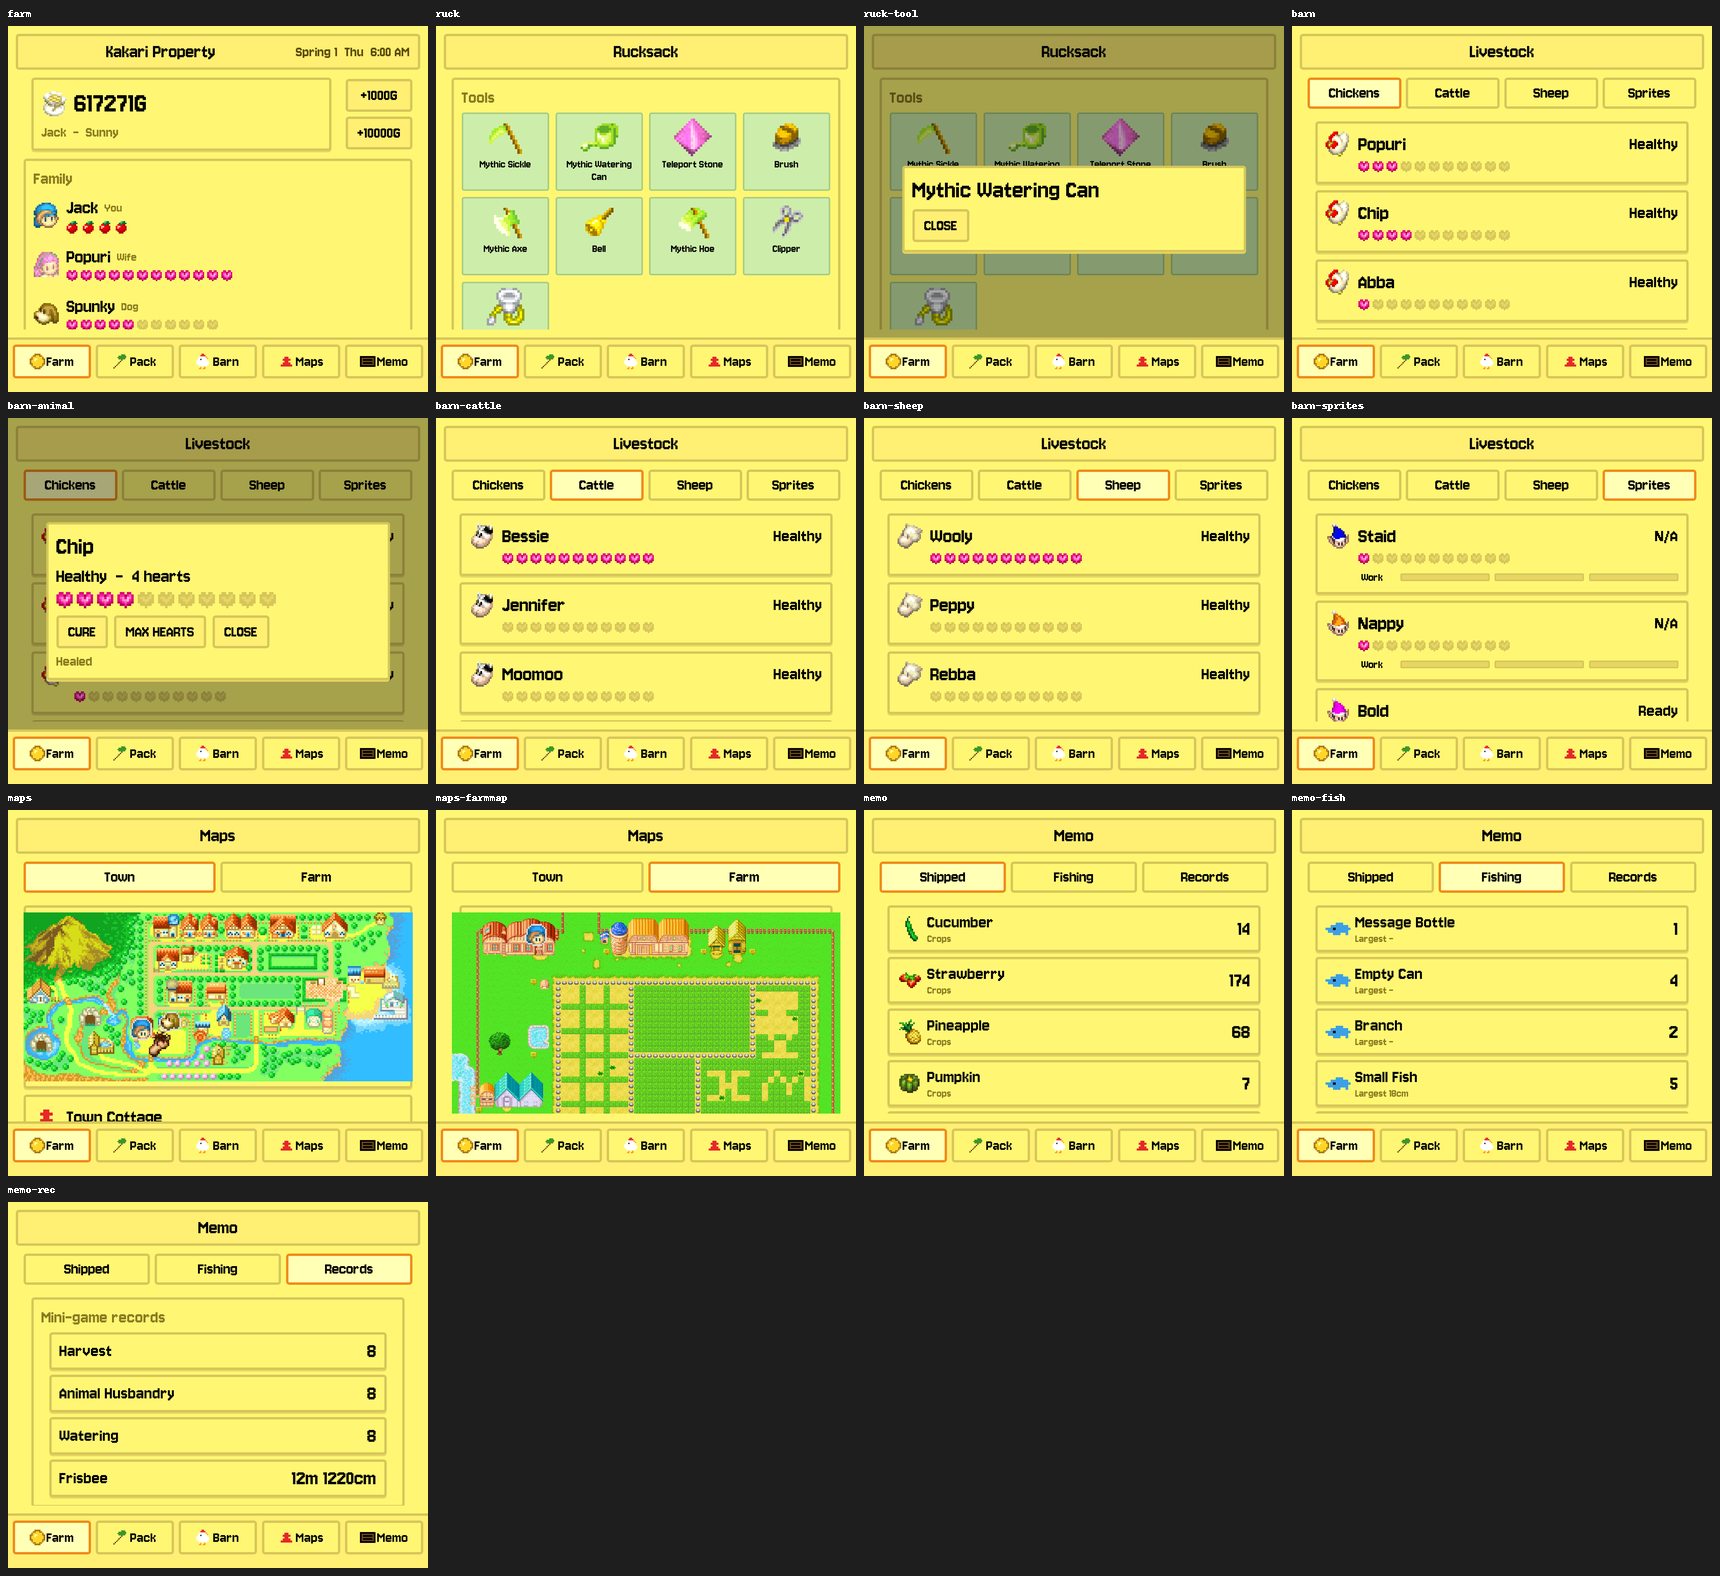
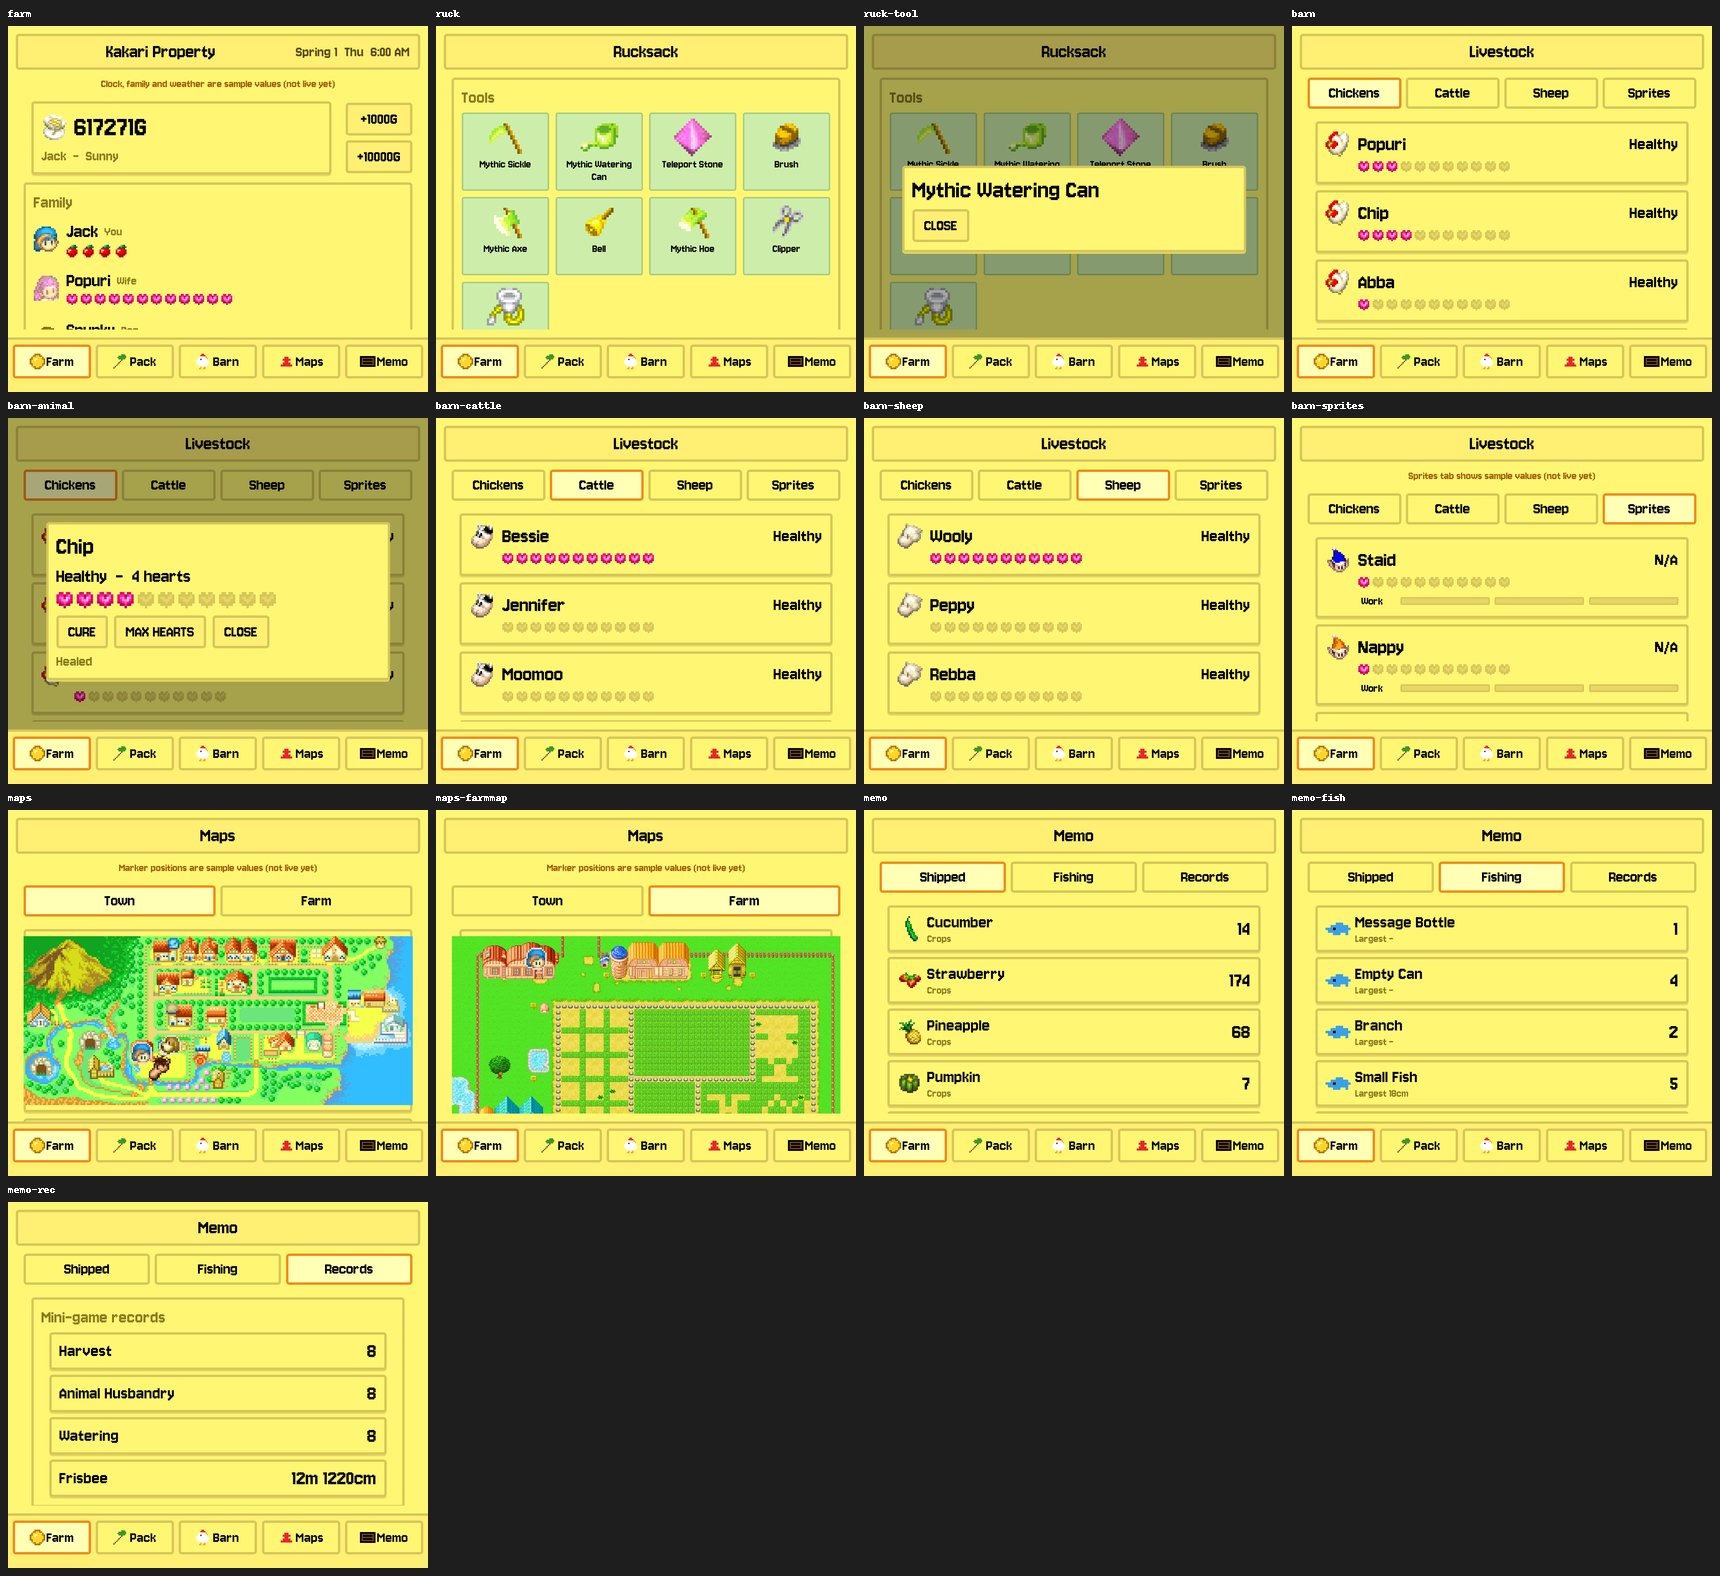
release: Packs v3.3.0
New: castlevania (Aria of Sorrow, Circle of the Moon, Harmony of Dissonance), fire-emblem, fire-emblem-the-sacred-stones, harvest-moon-fomt, mother-3 and zelda-a-link-to-the-past, all 0.1.0.
Metroid Fusion 2.0.5 and Zero Mission 1.0.5. companions.json and README updated.

Changed region(s): [[0.0, 0.5286, 0.493, 0.7151], [0.7395, 0.2798, 0.986, 0.4664], [0.0, 0.0311, 0.2465, 0.2176]]

diff --git a/harvest-moon-fomt-companion/style.css b/harvest-moon-fomt-companion/style.css
@@ -97,3 +97,5 @@
 .scroll .topline, .scroll .win, .scroll .tiles { margin: 0 10px; }
 .page .scroll { padding-top: 0; }
 .bar { flex-shrink: 0; } .scroll { min-height: 0; }
+
+.note { font-size: 15px; color: #a05a00; padding: 0 12px 4px 12px; text-align: center; flex-shrink: 0; }

diff --git a/harvest-moon-fomt-companion/art/layout.py b/harvest-moon-fomt-companion/art/layout.py
@@ -33,6 +33,7 @@ def slot_grid(src):
 # ---------- Farm ----------
 farm = box("page", [
     bar("{farm} Property", ("{season} {day}  {weekday}  {clock}", "$hasClock")),
+    text("note", "Clock, family and weather are sample values (not live yet)", visibleIf="$isSample"),
     box("scroll", [
     row("topline", [
         box("win gold-win", [row("gold-row", [img("coin", "$coinIcon"), text("gold", "{gold}G")]),
@@ -73,6 +74,7 @@ sprites = {"type": "list", "class": "clist", "items": "$sprites", "template": bo
                  {"type": "bar", "class": "meter m3", "value": "$b3", "max": 1}])])}
 barn = box("page", [
     bar("Livestock"),
+    text("note", "Sprites tab shows sample values (not live yet)", visibleIf="$tbSprites"),
     pills("barnTab", "chickens", [("Chickens", "chickens", "$tbChickens"), ("Cattle", "cattle", "$tbCattle"),
                                   ("Sheep", "sheep", "$tbSheep"), ("Sprites", "sprites", "$tbSprites")]),
     box("scroll", [
@@ -85,6 +87,7 @@ barn = box("page", [
 # ---------- Maps ----------
 maps = box("page", [
     bar("Maps"),
+    text("note", "Marker positions are sample values (not live yet)", visibleIf="$isSample"),
     pills("mapTab", "town", [("Town", "town", "$mpTown"), ("Farm", "farm", "$mpFarm")]),
     box("tabbody", [
         box("win map-win", [box("map-view", [
@@ -105,6 +108,7 @@ maps = box("page", [
 def kv_row(): return box("win srow", [box("sname-col", [text("sname", "{name}")]), text("scount", "{value}")])
 memo = box("page", [
     bar("Memo"),
+    text("note", "Fishing and records are sample values (not live yet)", visibleIf="$tmOther"),
     pills("memoTab", "ship", [("Shipped", "ship", "$tmShip"), ("Fishing", "fish", "$tmFish"), ("Records", "rec", "$tmRec")]),
     text("dim pad", "Nothing shipped yet", visibleIf="$noShipped"),
     box("scroll", [

diff --git a/README.md b/README.md
@@ -32,7 +32,7 @@ game's memory as you play. This repo holds the packs, one folder each.
 3. Start the game. The companion shows on the bottom screen.
 
 Each game remembers its pack; change it any time from the same **⋮** menu.
-Most packs need GBADuo **v0.1.3** or newer; the Metroid and Oracle of Ages packs need **v0.1.8**. The **WIDE** button (Pokémon FireRed and LeafGreen, The Minish Cap, Golden Sun) paints the game's world beside the picture and needs **v0.1.9**, **v0.1.10** for The Minish Cap, or **v0.1.11** for Golden Sun. The Dragon Ball Z: Legacy of Goku II, Pokémon Monomyth, Light Platinum, Unbound and Golden Sun: The Lost Age packs need **v0.1.15**.
+Most packs need GBADuo **v0.1.3** or newer; the Metroid and Oracle of Ages packs need **v0.1.8**. The **WIDE** button (Pokémon FireRed and LeafGreen, The Minish Cap, Golden Sun) paints the game's world beside the picture and needs **v0.1.9**, **v0.1.10** for The Minish Cap, or **v0.1.11** for Golden Sun. The Dragon Ball Z: Legacy of Goku II, Pokémon Monomyth, Light Platinum, Unbound, Golden Sun: The Lost Age, Castlevania, Fire Emblem, Harvest Moon, Mother 3 and A Link to the Past packs need **v0.1.15**.
 
 ## Packs
 
@@ -56,13 +56,28 @@ Each pack is a folder; the zip name is `<pack>-<version>.zip` on the
 
 | Pack | Game | Game codes | Pages | Version | Notes |
 |---|---|---|---|---|---|
-| [`metroid-zero-mission-companion`](metroid-zero-mission-companion) | Metroid: Zero Mission | `BMXE` `BMXP` `BMXJ` | Map, Status, Sectors, Log | 1.0.4 | The game's pause screen. Your explored map centered on Samus, her suit with the beams and gear you own (tap one to switch it on or off), area progress, boss targets and recovered tanks. Needs **GBADuo v0.1.8** and, for the switches, **Settings > Packs can change games**. See [NOTES](metroid-zero-mission-companion/NOTES.md). |
+| [`metroid-zero-mission-companion`](metroid-zero-mission-companion) | Metroid: Zero Mission | `BMXE` `BMXP` `BMXJ` | Map, Status, Sectors, Log | 1.0.5 | The game's pause screen. Your explored map centered on Samus, her suit with the beams and gear you own (tap one to switch it on or off), area progress, boss targets and recovered tanks. Needs **GBADuo v0.1.8** and, for the switches, **Settings > Packs can change games**. See [NOTES](metroid-zero-mission-companion/NOTES.md). |
 | [`advance-wars-companion`](advance-wars-companion) | Advance Wars | `AWRE` | Home, Units, Unit, Map, Armies, Guide, Log, Options | 0.1.1 | The day, funds and every army's units with HP, fuel and ammo, a map of the battlefield, a unit guide from the ROM's own table, an event log, and a movable navigation bar. |
 | [`final-fantasy-tactics-advance-companion`](final-fantasy-tactics-advance-companion) | Final Fantasy Tactics Advance | `AFXE` | Clan, Unit, Skills, Jobs, Top, Compare, Battle, Stats, Options | 0.1.1 | The clan roster with stats worked out from base values, gear and jobs (checked against the game's own screens), equipped abilities, a gear compare, the battle's foes and the Day's laws, and a movable navigation bar. Ships no game graphics. |
 | [`dragon-ball-z-legacy-of-goku-2-companion`](dragon-ball-z-legacy-of-goku-2-companion) | Dragon Ball Z: The Legacy of Goku II | `ALFE` | Journal, Status, Items, Options | 0.4.0 | The game's pause menu. Your party with live HP, EP, STR / POW / END, level and EXP, techniques, the items you carry with pictures and descriptions, and your active and finished quests. **Wide view** (Options page) paints the map around the game's picture, draws sprites that stick out of the frame, and stops at the map's edge; needs **GBADuo v0.1.15**. See [NOTES](dragon-ball-z-legacy-of-goku-2-companion/NOTES.md). |
 | [`final-fantasy-vi-advance-companion`](final-fantasy-vi-advance-companion) | Final Fantasy VI Advance | `BZ6E` | Party, Items, Abilities, Equip, Relics, Status, Formation, Config | 0.2.1 | The game's whole pause menu in a loop (left / right buttons): your party, every item, Espers and Magic, gear, relics, base stats and commands, the party order (tap two to swap) and the Config settings (tap to change; needs **Packs can change games**). See [NOTES](final-fantasy-vi-advance-companion/NOTES.md). |
 | [`mario-luigi-superstar-saga-companion`](mario-luigi-superstar-saga-companion) | Mario & Luigi: Superstar Saga | `A88E` | Passports, Bros. Info, Items | 0.2.1 | The game's Select menu: both brothers' passports (level, HP, BP, coins, play time), Bros. Info (POW, DEF, SPEED, STACHE, EXP and what is left to the next level) and your items and beans with their descriptions. Equipment, key items and the map are not mirrored yet. See [NOTES](mario-luigi-superstar-saga-companion/NOTES.md). |
-| [`metroid-fusion-companion`](metroid-fusion-companion) | Metroid Fusion | `AMTE` `AMTP` `AMTJ` | Map, Status, Arms, Sectors, Mission | 2.0.4 | The game's pause screen. Live map, Samus on her grid, every upgrade, sector progress, bosses, security hatches and your next objective. Game art is drawn from the US ROM; other regions show a text-only waiting screen. Needs **GBADuo v0.1.8**. See [NOTES](metroid-fusion-companion/NOTES.md). |
+| [`metroid-fusion-companion`](metroid-fusion-companion) | Metroid Fusion | `AMTE` `AMTP` `AMTJ` | Map, Status, Arms, Sectors, Mission | 2.0.5 | The game's pause screen. Live map, Samus on her grid, every upgrade, sector progress, bosses, security hatches and your next objective. Game art is drawn from the US ROM; other regions show a text-only waiting screen. Needs **GBADuo v0.1.8**. See [NOTES](metroid-fusion-companion/NOTES.md). |
+
+### Castlevania
+
+| Pack | Game | Game codes | Pages | Version | Notes |
+|---|---|---|---|---|---|
+| [`castlevania-aria-of-sorrow-companion`](castlevania-aria-of-sorrow-companion) | Castlevania: Aria of Sorrow | `A2CE` | Status, Soul, Equip, Items, Ability, Enemy, Config, Map | 0.1.0 | The pause menu in a loop (left / right plates): status with tappable menu and equipment, the soul set, equipment, items, abilities, enemy data and the castle map. Equip, set souls and use items from the second screen (needs **Settings > Packs can change games**). Not checked on a device yet. See [NOTES](castlevania-aria-of-sorrow-companion/NOTES.md). |
+| [`castlevania-circle-of-the-moon-companion`](castlevania-circle-of-the-moon-companion) | Castlevania: Circle of the Moon | `AAME` | Status, DSS, Items, Cards, Magic, Config, Map | 0.1.0 | The pause menu in a loop: status with the DSS combo and gear, the DSS card list, items, cards, magic, config and the castle map. Not checked on a device yet. See [NOTES](castlevania-circle-of-the-moon-companion/NOTES.md). |
+| [`castlevania-harmony-of-dissonance-companion`](castlevania-harmony-of-dissonance-companion) | Castlevania: Harmony of Dissonance | `ACHE` | Map, Status, Equip, Items, Books, Relics, Config | 0.1.0 | The SELECT castle map (Castle A and B) and the pause menu: equipment, items, spell books, relics and the config buttons. Not checked on a device yet. See [NOTES](castlevania-harmony-of-dissonance-companion/NOTES.md). |
+
+### Fire Emblem
+
+| Pack | Game | Game codes | Pages | Version | Notes |
+|---|---|---|---|---|---|
+| [`fire-emblem-companion`](fire-emblem-companion) | Fire Emblem | `AE7Y` (Europe) | Units, Personal, Items, Weapons, Supply, Status | 0.1.0 | The game's unit screens (`< title > n/3`): every unit with stats, personal data, items, weapon ranks, the convoy and the chapter status. Portraits are read from your ROM. Only the European cartridge. Not checked on a device yet. See [NOTES](fire-emblem-companion/NOTES.md). |
+| [`fire-emblem-the-sacred-stones-companion`](fire-emblem-the-sacred-stones-companion) | Fire Emblem: The Sacred Stones | `BE8E` | Units, Personal, Items, Weapons, Supply, Status | 0.1.0 | The same unit screens for The Sacred Stones, portraits read from your ROM. Only the USA cartridge. Not checked on a device yet. See [NOTES](fire-emblem-the-sacred-stones-companion/NOTES.md). |
 
 ### Zelda
 
@@ -70,12 +85,14 @@ Each pack is a folder; the zip name is `<pack>-<version>.zip` on the
 |---|---|---|---|---|---|
 | [`zelda-minish-cap-companion`](zelda-the-minish-cap-companion) | The Minish Cap | `BZME` `BZMP` `BZMJ` | Map, Items, Kinstone, Quest | 3.2.2 | *Minish-OS*: wood and leather panels with stone item sockets. The world map, item icons, Link and the title logo are drawn from your ROM. Tap Ezlo for a hint. Wide view draws nearby enemies and NPCs in the margins and hides the HUD over the picture (the pack asks first); a **COLOR** button needs **GBADuo v0.1.13**. See [NOTES](zelda-the-minish-cap-companion/NOTES.md). |
 | [`zelda-oracle-of-ages-companion`](zelda-oracle-of-ages-companion) | Oracle of Ages | `CGB-AZ8E` `CGB-AZ8P` `CGB-AZ8J` | Items, Map, Seeds, Rings, Status | 0.1.3 | Early version in the game's own subscreen style. Era maps that dim unvisited rooms, seeds, all 64 rings, hearts and essences. Needs **GBADuo v0.1.8**. See [NOTES](zelda-oracle-of-ages-companion/NOTES.md). |
+| [`zelda-a-link-to-the-past-companion`](zelda-a-link-to-the-past-companion) | The Legend of Zelda: A Link to the Past | `AZLE` | Items, Status, Dungeons, Map | 0.1.0 | The GBA item screen: items grid, hearts, magic, bombs and arrows, rupees, dungeon progress and the overworld map. Read-only. Not checked on a device yet. See [NOTES](zelda-a-link-to-the-past-companion/NOTES.md). |
 
 ### Other games
 
 | Pack | Game | Game codes | Pages | Version | Notes |
 |---|---|---|---|---|---|
-| [`harvest-moon-fomt-companion`](harvest-moon-fomt-companion) | Harvest Moon: Friends of Mineral Town | `A4NP` `BHFE` | Farm, Bag, Love, Sprites | 1.1.2 | *The Mineral Town Almanac*: a storybook farm whose backdrop follows the season and turns to a starry sky at night. Checked on the EU cart. See [NOTES](harvest-moon-fomt-companion/NOTES.md). |
+| [`harvest-moon-fomt-companion`](harvest-moon-fomt-companion) | Harvest Moon: Friends of Mineral Town | `A4NE` | Farm, Pack, Barn, Maps, Memo | 0.1.0 | The pause menu in the game's own paper windows: gold, the rucksack with the game's tool and item icons (drawn from your ROM), chickens, cattle and sheep with hearts (cure and max hearts need **Packs can change games**), the Memo's shipping list and the town and farm maps. Family, sprites, fishing, records and map markers are labelled sample values until their addresses are mapped. Only the US cartridge. Not checked on a device yet. See [NOTES](harvest-moon-fomt-companion/NOTES.md). |
+| [`mother-3-companion`](mother-3-companion) | Mother 3 (English fan translation v1.3) | `A3UJ` | Goods, Equip, PSI, Status | 0.1.0 | The game's pause windows: goods, equipment, PSI and status for the party, with portraits and item data read from your ROM. Not checked on a device yet. See [NOTES](mother-3-companion/NOTES.md). |
 | [`golden-sun-companion`](golden-sun-companion) | Golden Sun | `AGSE` `AGSP` `AGSJ` `AGSI` | Party, Djinn, Psynergy, Maps | 0.4.2 | Early preview in the game's blue window style: party with the Djinn each member holds, Psynergy with icons, an area map that follows your character, a **WIDE** button that shows nearby people in the margins (US ROM only) and a **COLOR** button. Needs **GBADuo v0.1.13** for the COLOR look. |
 | [`golden-sun-the-lost-age-companion`](golden-sun-the-lost-age-companion) | Golden Sun: The Lost Age | `AGFE` | Party, Djinn, Psynergy, Maps, Options | 0.1.1 | Cloned from the Golden Sun pack with The Lost Age's addresses (party, stats, coins, Djinn); name tables are still Golden Sun's. WIDE and COLOR need **GBADuo v0.1.13**. See [NOTES](golden-sun-the-lost-age-companion/NOTES.md). |
 
